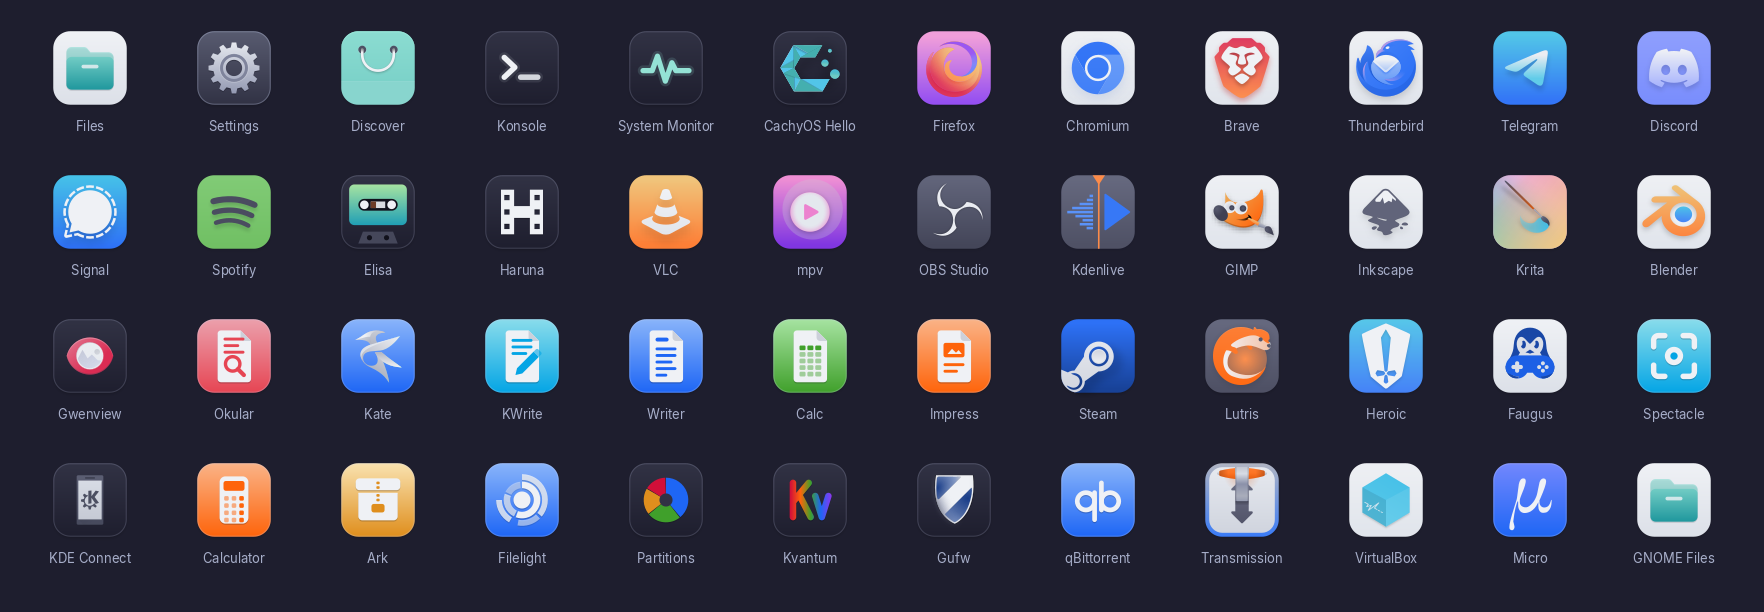
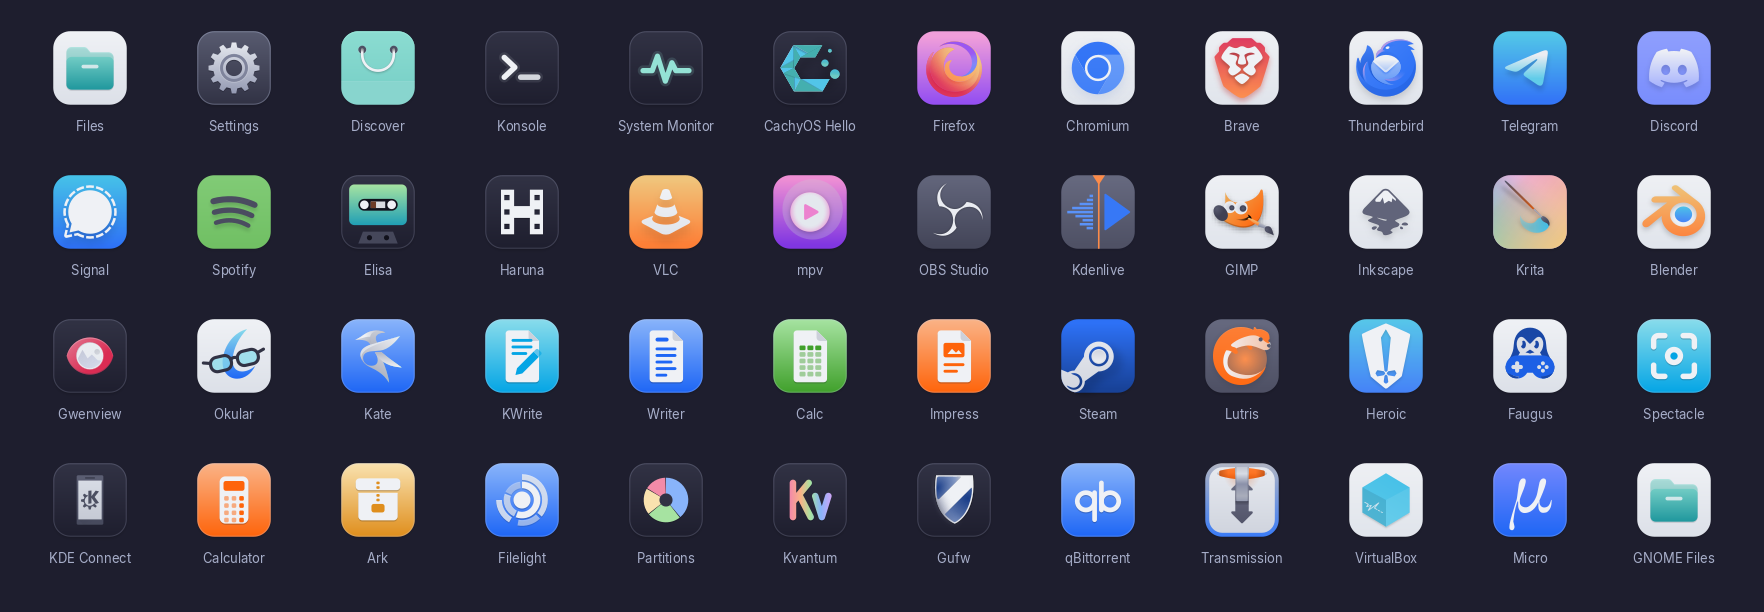
Okular's wave and glasses; the partition manager and Kvantum in Mocha colors

Changed region(s): [[0.0935, 0.4967, 0.1559, 0.652], [0.343, 0.7761, 0.4053, 0.8693], [0.4365, 0.7761, 0.4677, 0.8693]]

diff --git a/make/teal/draw.py b/make/teal/draw.py
@@ -296,15 +296,9 @@ def menu_list(c, a):
             f'<rect x="18" y="25.5" width="28" height="7" rx="2" fill="{a}" fill-opacity=".3"/>' + rows)
 
 
-def page_magnifier(c):
-    return (lines(c, (16, 12, 16), 18)
-            + f'<circle cx="31" cy="38" r="5.5" fill="none" stroke="{c}" stroke-width="2.6"/>'
-            f'<path d="M35 42 39.5 46.5" {ROUND} stroke="{c}" stroke-width="3.2"/>')
-
-
 def partitions(c, a):
     """The partition manager: its disk as a pie of colored partitions."""
-    return "".join(f'<path d="{d}" fill="{LATTE[f] if c != CRUST else CRUST}"/>' for d, f in PARTITIONS) + \
+    return "".join(f'<path d="{d}" fill="{MOCHA[f] if c != CRUST else CRUST}"/>' for d, f in PARTITIONS) + \
         f'<circle cx="32" cy="32" r="5" fill="{SURFACE0 if c != CRUST else CRUST}"/>'
 
 
@@ -440,7 +434,7 @@ def circuit(c, a):
 
 def kvantum_logo():
     """Kvantum: its Kv, in the Catppuccin rainbow, on the Mocha tile of the system's tools."""
-    stops = "".join(f'<stop offset="{i / 4:g}" stop-color="{LATTE[f]}"/>'
+    stops = "".join(f'<stop offset="{i / 4:g}" stop-color="{MOCHA[f]}"/>'
                     for i, f in enumerate(("red", "peach", "green", "blue", "mauve")))
     letters = "M19 19v26M19 33.5 31 19M24 28.5 32.5 45M36 29l5 16 5-16"
     return icon(mocha_tile()
@@ -534,6 +528,18 @@ def penguin(c, a):
             f'l-1.4 2.5c-.8 1.3-1.7 2.1-3.2 2.1-2 0-3.8-1.6-3.4-4.2l.6-3.6c.7-4.2 2.9-7 6.9-7Z" fill="{c}" stroke="{a}" stroke-width="1.2"/>'
             f'<path d="M22.5 40h5M25 37.5v5" {ROUND} stroke="{a}" stroke-width="1.8"/>'
             f'<circle cx="38.5" cy="38.6" r="1.4" fill="{a}"/><circle cx="41.6" cy="41.4" r="1.4" fill="{a}"/>')
+
+
+def okular():
+    """Okular: the wave and the reading glasses of its logo, on the light Latte tile."""
+    wave = ("M42 11.5c-9.6 2.2-17.4 12-18.6 23.2-.9 8.6 3.9 14.6 10.9 14.6 6 0 11-4 13.9-9.8-3.2 2.8-6.8 4.3-10.1 4.3"
+            "-5.1 0-7.8-4-7.1-10 .8-8.2 4.9-16 11-22.3Z")
+    lens = f'y="30" width="16" height="11" rx="5" fill="{MOCHA["sky"]}" fill-opacity=".75" stroke="{SURFACE0}" stroke-width="2.4"'
+    return icon(vertical("tile", PAPER, PAPER_SHADE) + vertical("wave", MOCHA["sky"], LATTE["blue"], 11, 50),
+                f'<rect {TILE} fill="url(#tile)"/><path d="{wave}" fill="url(#wave)"/>'
+                f'<g transform="rotate(-13 32 34)"><rect x="13.5" {lens}/><rect x="34.5" {lens}/>'
+                f'<path d="M29.5 34c1.6-1.2 3.4-1.2 5 0M13.5 33.5 8.5 32M50.5 33.5 55.5 32" {ROUND} '
+                f'stroke="{SURFACE0}" stroke-width="2.4"/></g>')
 
 
 # --- tray icons, in the text color like the system's beside them -----------------------------
@@ -712,7 +718,7 @@ DESIGNS.update({
     "kvantum.svg": (kvantum_logo, ["kvantummanager"]),
     "kwalletmanager.svg": (lambda: on_color(wallet, "peach"), ["kwalletmanager2", "org.kde.kwalletmanager5",
                                                             "org.kde.kwalletmanager", "kwallet"]),
-    "okular.svg": (lambda: page(page_magnifier, "maroon"), kde("okular")[1:]),
+    "okular.svg": (okular, kde("okular")[1:]),
     "qbittorrent.svg": lambda: on_color(qb, "blue"),
     "multimedia-volume-control.svg": (lambda: on_color(knob, "lavender"),
                                       ["org.pulseaudio.pavucontrol", "pavucontrol", "pavucontrol-qt"]),
